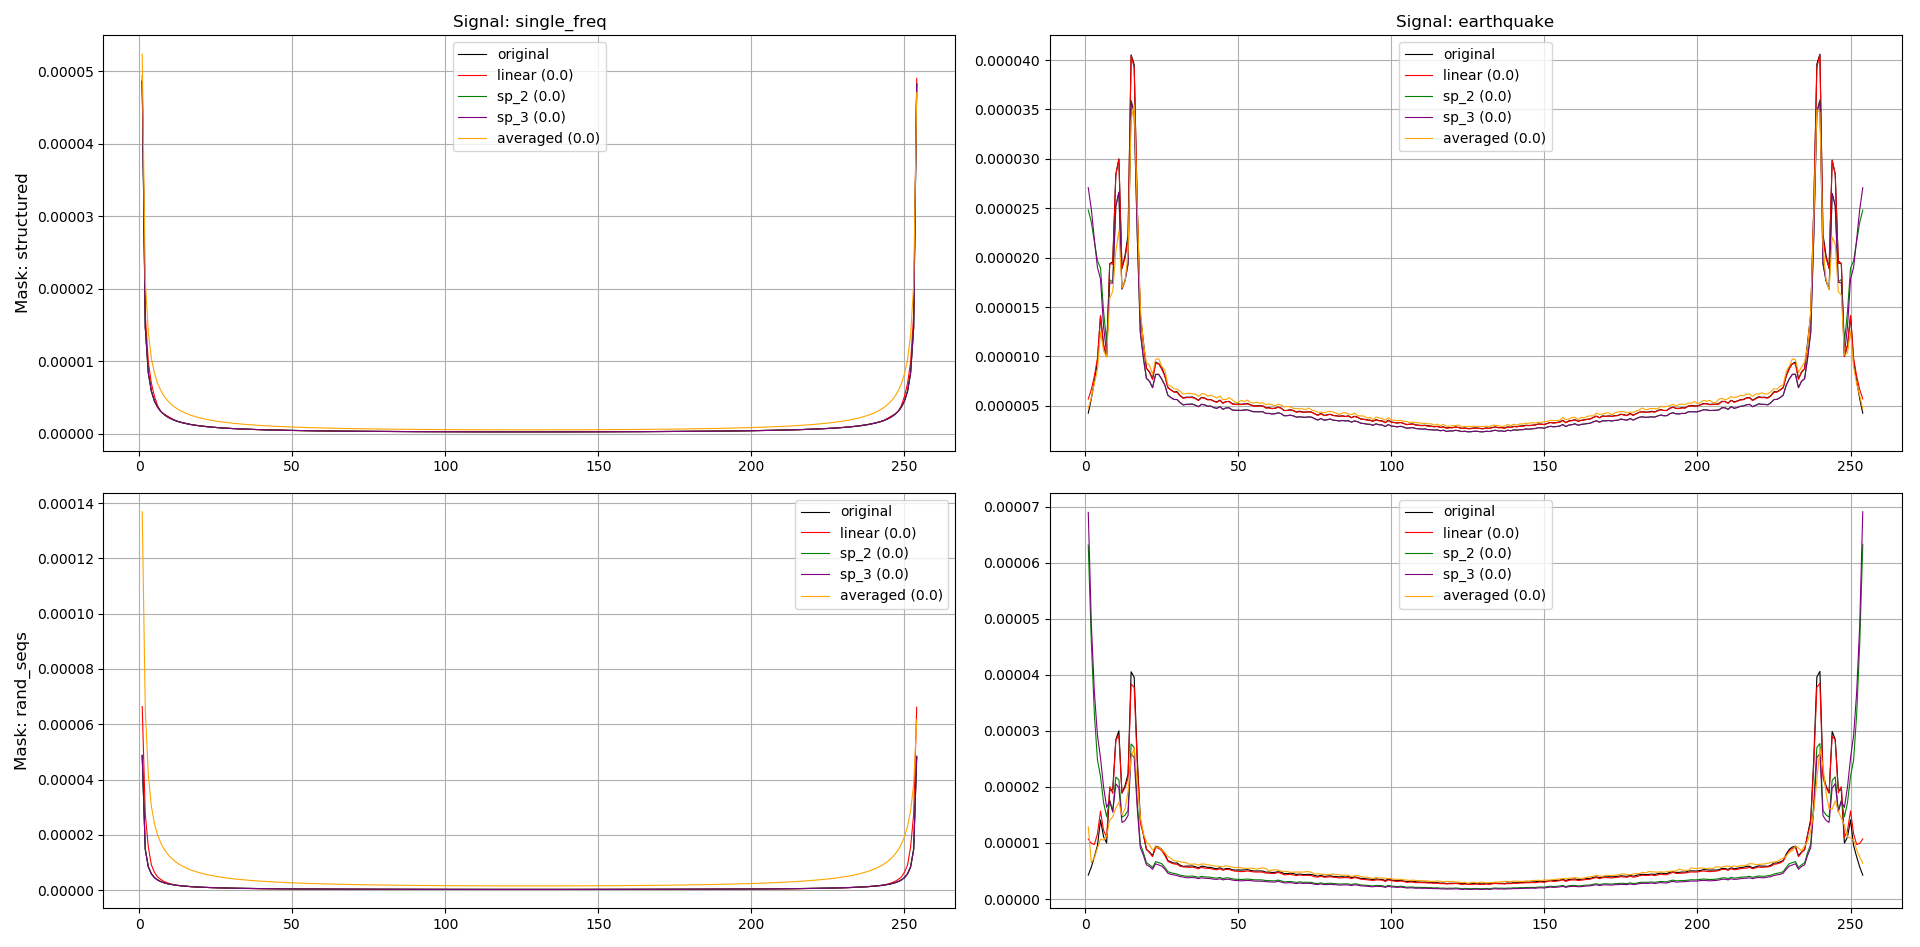
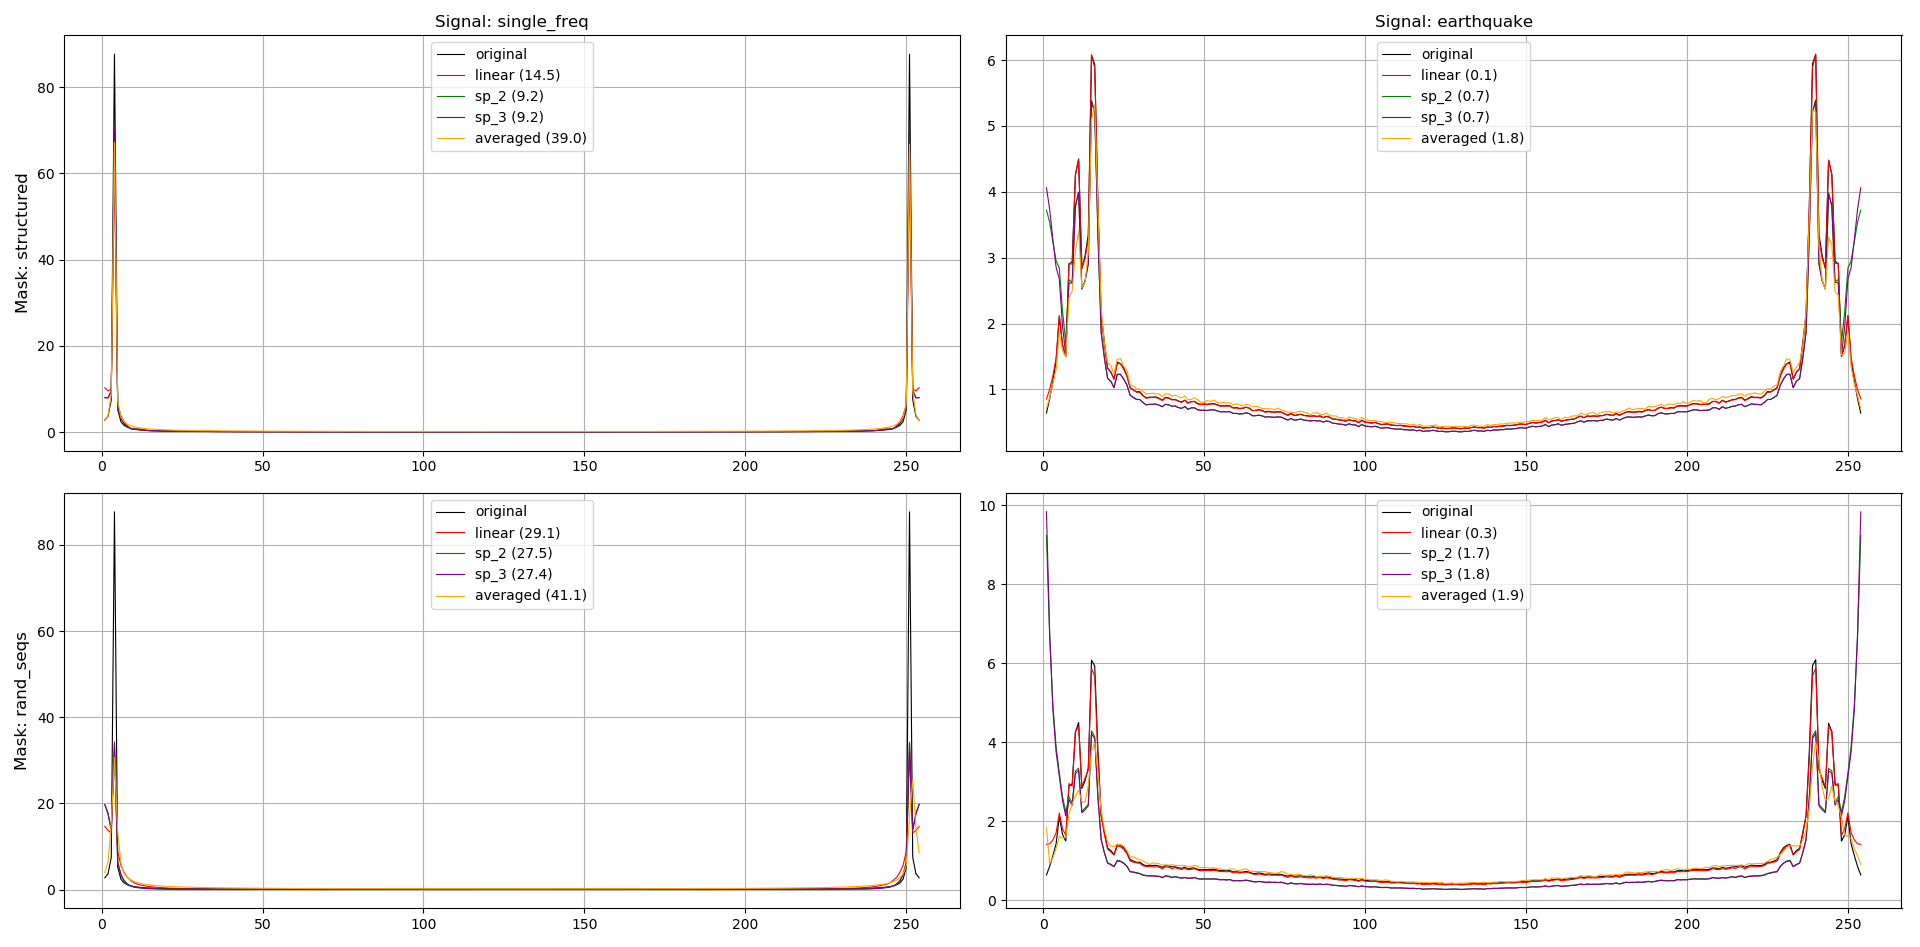
nicer results

diff --git a/SignalReconstructor.py b/SignalReconstructor.py
@@ -148,7 +148,7 @@ class SignalReconstructor:
                     # fourier mse
                     err = np.sqrt(np.mean((np.abs(f_long)-np.abs(good_fft))**2))
                     frmse[m][mask+' :\n'+sig] = err
-                    f_max_err[m][mask+' :\n'+sig] = np.sqrt(np.max((np.abs(f_long)-np.abs(good_fft))**2))
+                    f_max_err[m][mask+' :\n'+sig] = np.sqrt(np.max((np.abs(f_long[1:-1])-np.abs(good_fft[1:-1]))**2))
                     xp = [np.mean(np.abs(f_long)[int(i*len(f_long)/n_max):int((i+1)*len(f_long)/n_max)])
                       for i in range(n_max)] \
                         if n_max else np.abs(f_long)
